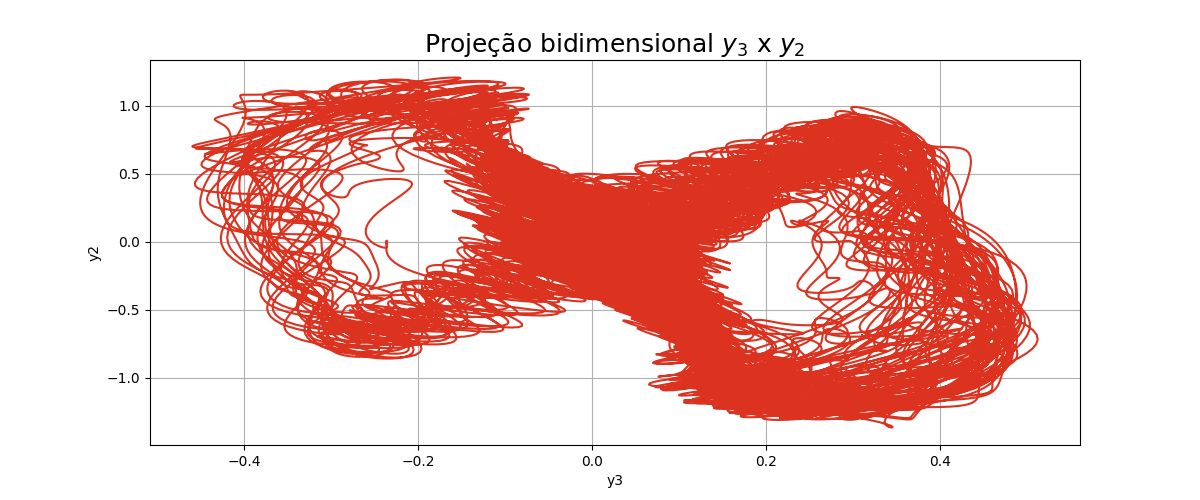
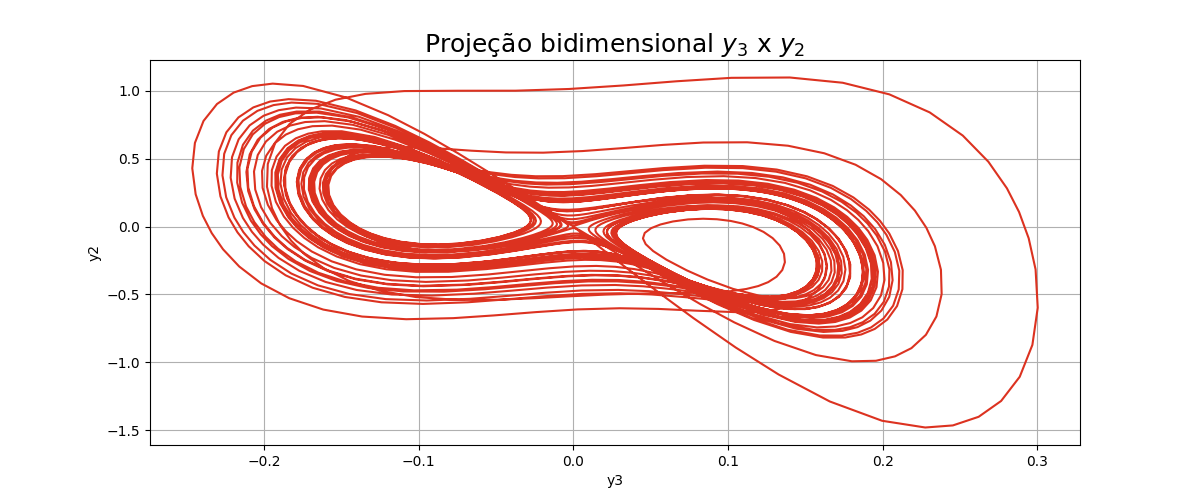
add qg-model

diff --git a/06_LORENZ_80/qg_model.py b/06_LORENZ_80/qg_model.py
@@ -1,0 +1,66 @@
+import numpy as np
+from scipy.integrate import solve_ivp
+import pandas as pd
+from pathlib import Path
+
+
+a = [1, 1, 3]
+b = [
+    0.5 * (a[0] - a[1] - a[2]),
+    0.5 * (a[1] - a[2] - a[0]),
+    0.5 * (a[2] - a[0] - a[1]),
+]
+c = np.sqrt(b[0]*b[1] + b[1]*b[2] + b[2]*b[0])
+
+h = [-1.0, 0.0, 0.0]
+F = [0.3027, 0.0, 0.0]
+g0 = 8.0
+kappa0 = 1/48
+nu0 = kappa0               
+
+
+def eq43_rhs(t, y):
+    y = np.asarray(y)
+    dy = np.zeros(3)
+
+    for i in range(3):
+        j = (i + 1) % 3
+        k = (i + 2) % 3
+
+        dy[i] = (g0 * c * (a[k] - a[j]) * y[j] * y[k]
+            - a[i] * (a[i] * g0 * nu0 + kappa0) * y[i]
+            - c * h[k] * y[j]
+            + c * h[j] * y[k]
+            + F[i]) / (a[i] * g0 + 1.0)
+
+    return dy
+
+def qgmodel(y0, t_final):
+    t_span = (0.0, float(t_final))
+    sol = solve_ivp(eq43_rhs, t_span, np.asarray(y0, dtype=float), method="RK45", rtol=1e-6, atol=1e-8)
+    return sol.t, sol.y.T  
+
+if __name__ == "__main__":
+    y0 = [0.53333, 0, 0]
+
+    t_final = 400*8
+
+    t, Y = qgmodel(y0, t_final)
+
+    Y = np.asarray(Y)
+    df = pd.DataFrame(
+        {
+            "time": t,
+            "y1": Y[:, 0],
+            "y2": Y[:, 1],
+            "y3": Y[:, 2],
+        }
+    )
+
+    BASE = Path(__file__).resolve().parent
+    DATADIR = BASE / "data"
+    DATADIR.mkdir(parents=True, exist_ok=True)
+    out_file = DATADIR / "qg_model.csv"
+    df.to_csv(out_file, index=False)
+
+    print(f"CSV salvo em: {out_file}")

diff --git a/06_LORENZ_80/plot_bidimensional.py b/06_LORENZ_80/plot_bidimensional.py
@@ -3,7 +3,7 @@ import matplotlib.pyplot as plt
 from pathlib import Path
 
 BASE = Path(__file__).resolve().parent
-DATA = BASE / "data" / "f03027d400_cond_hardley_limpo.csv"
+DATA = BASE / "data" / "qg_model.csv"
 OUTDIR = BASE / "src"
 OUTDIR.mkdir(parents=True, exist_ok=True)
 
@@ -18,5 +18,5 @@ plt.title("Projeção bidimensional $y_3$ x $y_2$", fontsize=18)
 plt.xlabel("y3")
 plt.ylabel("y2")
 plt.grid(True)
-plt.savefig(OUTDIR / "l80_y3_x_y2.png")
+plt.savefig(OUTDIR / "l80qg_y3_x_y2.png")
 plt.close()
